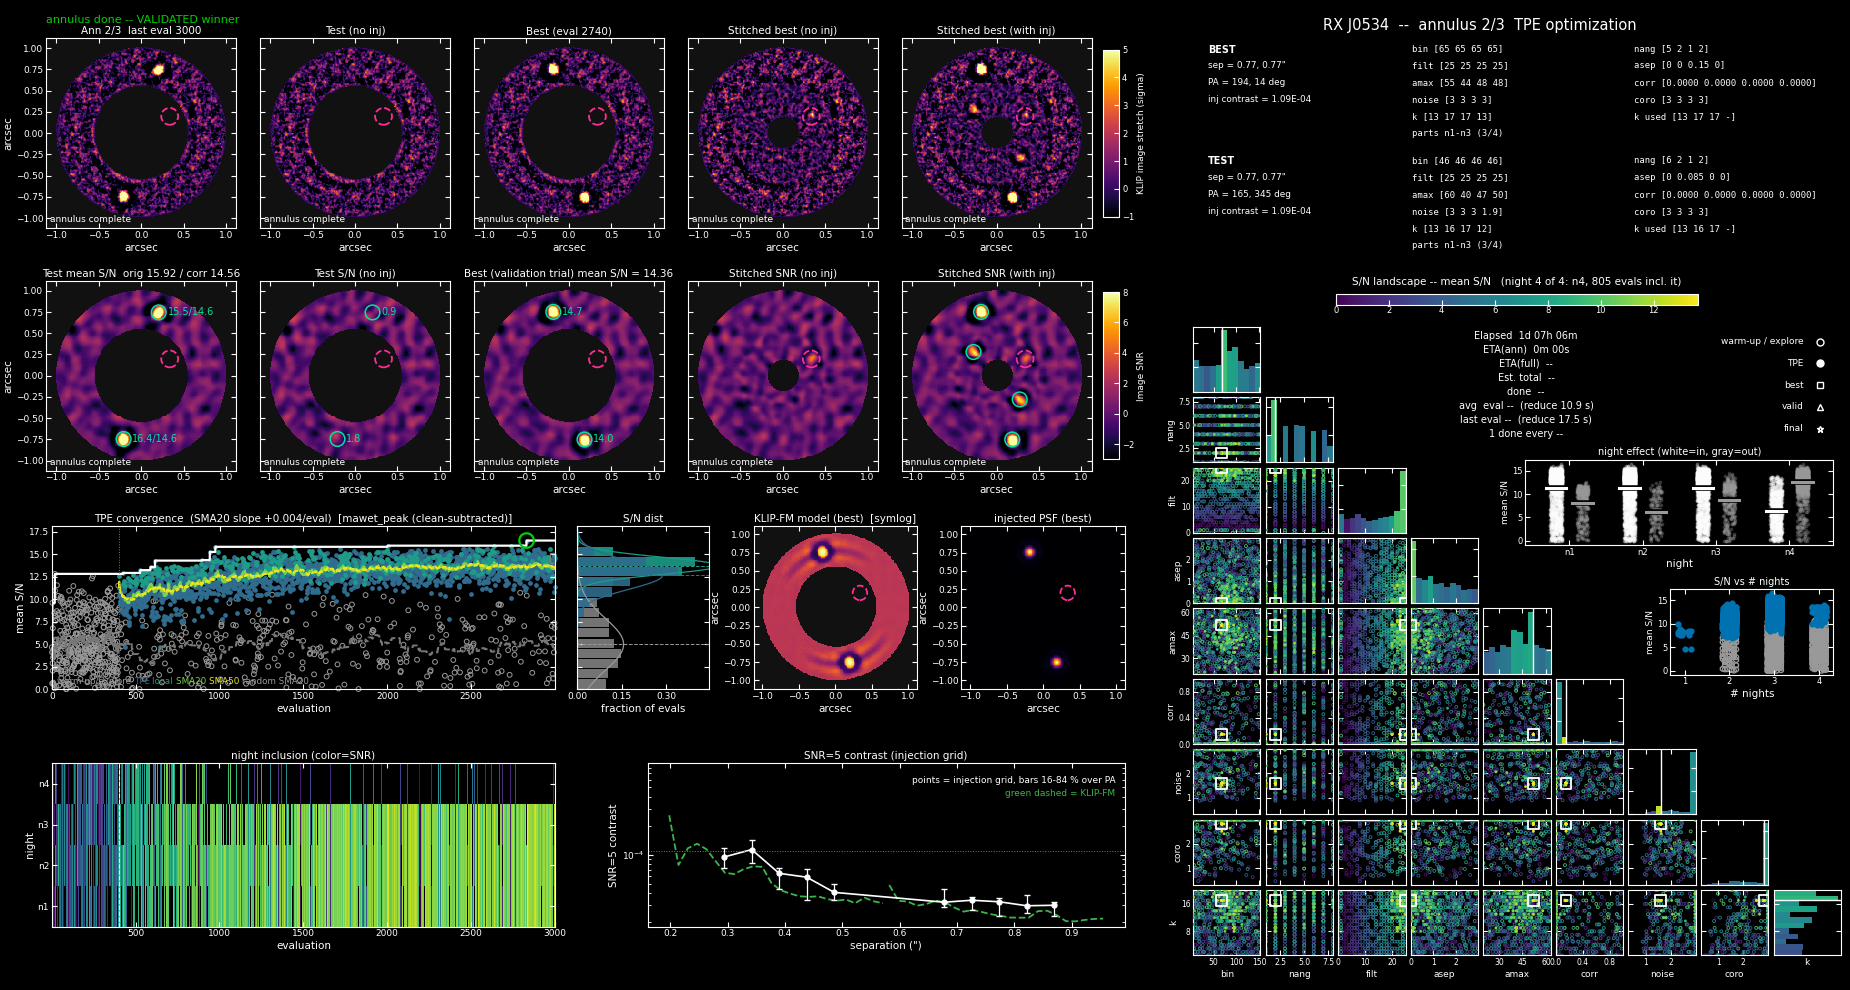
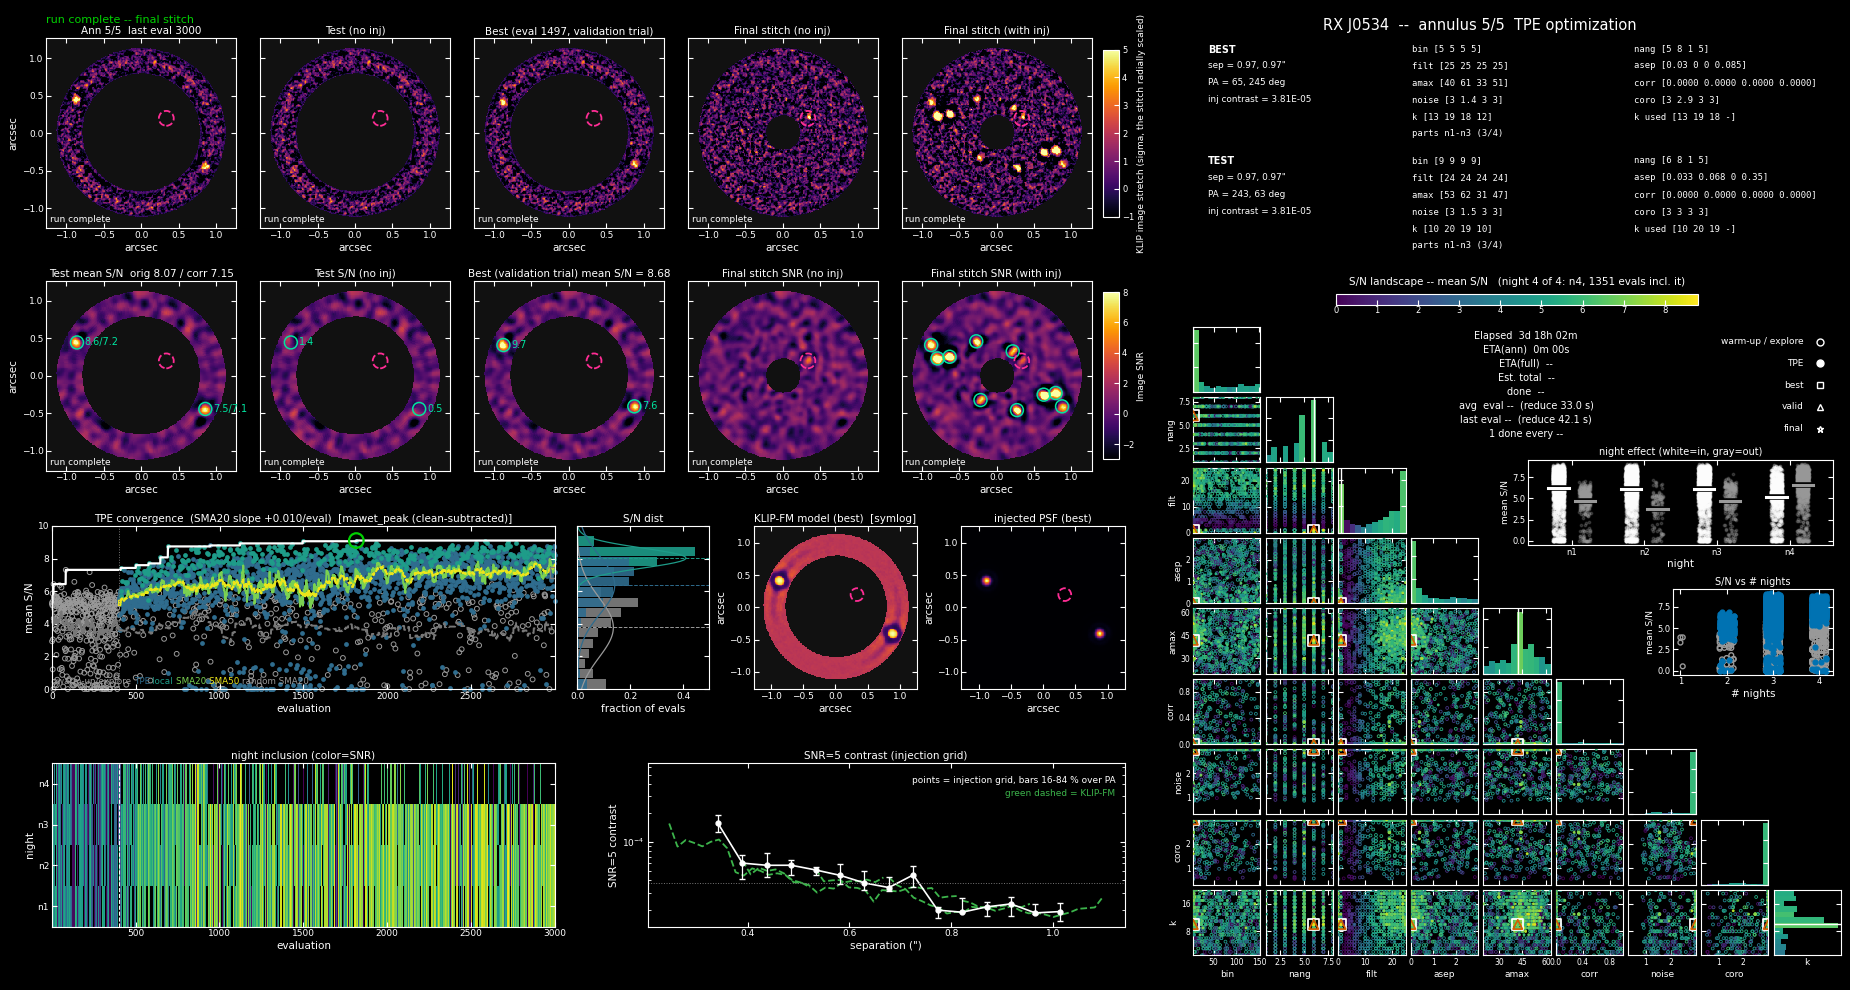
The README's panel from five annuli of 3 FWHM
- docs/img/step_display.png is the last panel of scripts/readme_panel.py
  --ann-fwhm 1.5 --extra-annuli 2 --seam-annuli (run on 76c1c64, 2026-11-23 to 27):
  three touching annuli of 3 FWHM from 0.25" to 1.11" and one on each of their two
  boundaries, 3,000 evaluations each, with the final-image grid's winners in the
  stitch.  The stitched images show no ring at the tile edges.  On the stitch the
  companion reads S/N 7.55 (FAP 1.0E-07, a detection at the operating FAP; 9.02 in
  the three-annulus run) and the ten injected sources 7.4 to 17.2.  It replaces the
  second annulus' frame of acc8518.
- scripts/readme_panel.py --ann-fwhm N passes the half-width of the companion's
  annulus in FWHM to run_rxj0534.py, with a default run directory of its own
  (readme_<2N>fwhm); its docstring says which frame the README shows.  Tests in
  tests/test_readme_panel.py.
- scripts/run_rxj0534.py and scripts/run_rxj0534.sh read the data from
  /Volumes/RAID64TB/LMIRCam by default, where it now lives.

Claude-Session: https://claude.ai/code/session_01EiqFzbA4C8K8mimrrPdLAM

diff --git a/scripts/readme_panel.py b/scripts/readme_panel.py
@@ -8,6 +8,7 @@
     python3 scripts/readme_panel.py --no-show             # no window, panels still written
     python3 scripts/readme_panel.py --target hd95086      # the panel on public data (VLT/SPHERE)
     python3 scripts/readme_panel.py --extra-annuli 1 --seam-annuli   # two annuli and one on their boundary
+    python3 scripts/readme_panel.py --ann-fwhm 1.5 --extra-annuli 2 --seam-annuli   # the README's image, about four days
 
 RX J0534 is ``scripts/run_rxj0534.py``'s four-night search (``--partitions 4``), with the
 companion held out of the objective.  The first annulus is its separation +/- 2 FWHM
@@ -22,7 +23,11 @@ and a plateau as long again.  The outer annuli hold two and three times the inne
 so they take about that much longer.  The contrast grid steps half a FWHM (``--cg-step``): five
 separations per annulus, a FWHM in from its edges, so the curve has no points within a FWHM of
 the seams.  The panel's title is ``--title`` ("RX J0534"), not the run directory's name.  The
-data are read from ``LMIRCAM_ROOT`` (default /Volumes/RAID36TB/LMIRCam).
+data are read from ``LMIRCAM_ROOT`` (default /Volumes/RAID64TB/LMIRCam).
+
+``--ann-fwhm`` sets the half-width of the companion's annulus in FWHM (``run_rxj0534.py
+--ann-fwhm``, 2 by default), and the annuli outside it take its width: 1.5 gives annuli of 3 FWHM,
+0.25-0.53", 0.53-0.82" and 0.82-1.11" with ``--extra-annuli 2``.
 
 ``--seam-annuli`` adds an annulus on each boundary between the annuli (``run_rxj0534.py
 --seam-annuli``), from the center of the one inside to the center of the one outside, numbered by
@@ -45,13 +50,16 @@ source per reduction at 12 position angles per separation (``--cg-pa``), each it
 (``--cg-target``) with the IDL contrast generators' aperture photometry or the run's
 matched-filter S/N (``--cg-snr``).
 
-The run writes to ``--run-dir`` (``~/klip_tpe_runs/rxj0534/readme_3ann``, ``readme_seam`` with
-``--seam-annuli``, or ``~/klip_tpe_runs/hd95086``), outside any synced folder; the single-annulus
-run of 2026-10-30 is in ``~/klip_tpe_runs/rxj0534/readme``.  The image at the top of the README
-(``docs/img/step_display.png``) is the three-annulus run's panel at the end of its second annulus,
-finished with its validated winner: its stitched images and contrast curve cover the first two
-annuli, the companion's included, and its convergence and parameter panels are the second
-annulus'.  Running the command again resumes the run.
+The run writes to ``--run-dir`` (``~/klip_tpe_runs/rxj0534/readme_3ann``; ``readme_seam`` with
+``--seam-annuli``; ``readme_<2N>fwhm`` with ``--ann-fwhm N``, so ``readme_3fwhm`` for 1.5; or
+``~/klip_tpe_runs/hd95086``), outside any synced folder; the single-annulus run of 2026-10-30 is
+in ``~/klip_tpe_runs/rxj0534/readme``.  The image at the top of the README
+(``docs/img/step_display.png``) is the last panel of ``--ann-fwhm 1.5 --extra-annuli 2
+--seam-annuli`` (``readme_3fwhm``, 2026-11-23 to 27): the three annuli of 3 FWHM from 0.25" to
+1.11" and one on each of their two boundaries, 3,000 evaluations each, with the final-image
+grid's winners in the stitch.  Its stitched images and contrast curve cover all five annuli, the
+companion's included, and its convergence and parameter panels are the last annulus'.  Running
+the command again resumes the run.
 """
 from __future__ import annotations
 
@@ -87,13 +95,16 @@ def parse(argv=None) -> argparse.Namespace:
     a : argparse.Namespace
         The options.  Those not given take ``TARGETS``' values for the target (run directory,
         title, seed, warm-up, grid step, source count and extra annuli), and ``run_dir`` is
-        expanded.  With ``--seam-annuli`` the default run directory is
-        ``~/klip_tpe_runs/rxj0534/readme_seam``, so the touching annuli's run is not resumed.
+        expanded.  With ``--ann-fwhm N`` the default run directory is
+        ``~/klip_tpe_runs/rxj0534/readme_<2N>fwhm``, and otherwise with ``--seam-annuli``
+        ``~/klip_tpe_runs/rxj0534/readme_seam``, so no run of another layout is resumed.
+        ``ann_fwhm`` is None when not given (``run_rxj0534.py``'s default).
 
     Raises
     ------
     SystemExit
-        On a bad option, or ``--seam-annuli`` with ``--target hd95086``.
+        On a bad option, ``--seam-annuli`` or ``--ann-fwhm`` with ``--target hd95086``, or an
+        ``--ann-fwhm`` that is not positive.
     """
     p = argparse.ArgumentParser(description=__doc__.split("\n\n")[0],
                                 formatter_class=argparse.RawDescriptionHelpFormatter)
@@ -113,8 +124,13 @@ def parse(argv=None) -> argparse.Namespace:
                    help="RX J0534: one more annulus on each boundary between the annuli, so the stitched "
                         "images hold no KLIP zone edge (run_rxj0534.py --seam-annuli; needs --extra-annuli 1 "
                         "or more). Default run directory: ~/klip_tpe_runs/rxj0534/readme_seam")
+    p.add_argument("--ann-fwhm", type=float, default=None, metavar="N",
+                   help="RX J0534: half-width of the companion's annulus in FWHM, the annuli outside it as wide "
+                        "(run_rxj0534.py --ann-fwhm; default 2). Default run directory: "
+                        "~/klip_tpe_runs/rxj0534/readme_<2N>fwhm, readme_3fwhm for the README's 1.5")
     p.add_argument("--run-dir", default=None,
-                   help="run directory (default ~/klip_tpe_runs/rxj0534/readme_3ann or ~/klip_tpe_runs/hd95086)")
+                   help="run directory (default ~/klip_tpe_runs/rxj0534/readme_3ann, readme_seam or "
+                        "readme_<2N>fwhm, or ~/klip_tpe_runs/hd95086)")
     p.add_argument("--title", default=None, help="the panel's title (default \"RX J0534\" or \"HD 95086\")")
     p.add_argument("--cg-pa", type=int, default=12, help="contrast grid: position angles per separation (default 12)")
     p.add_argument("--cg-step", type=float, default=None,
@@ -134,6 +150,13 @@ def parse(argv=None) -> argparse.Namespace:
     a = p.parse_args(argv)
     if a.seam_annuli and a.target != "rxj0534":
         p.error("--seam-annuli is for RX J0534's annuli")
+    if a.ann_fwhm is not None:
+        if a.target != "rxj0534":
+            p.error("--ann-fwhm is for RX J0534's annuli")
+        if not a.ann_fwhm > 0:
+            p.error(f"--ann-fwhm must be positive, not {a.ann_fwhm:g}")
+        if a.run_dir is None:
+            a.run_dir = f"~/klip_tpe_runs/rxj0534/readme_{2 * a.ann_fwhm:g}fwhm"
     if a.seam_annuli and a.run_dir is None:
         a.run_dir = "~/klip_tpe_runs/rxj0534/readme_seam"
     for k, v in TARGETS[a.target].items():
@@ -156,11 +179,13 @@ def rxj0534_argv(a: argparse.Namespace) -> list:
     argv : list of str
         The four-night search (``--partitions 4``) with the sources 180 deg apart on each annulus'
         mid-radius (``--even-pa``) and the injection-grid contrast curve, with the run directory,
-        title, budget, extra and seam annuli, warm-up, seed and window as given.
+        title, budget, annulus width, extra and seam annuli, warm-up, seed and window as given.
     """
     argv = ["--partitions", "4", "--n-iter", str(a.n_iter), "--out", a.run_dir, "--title", a.title,
             "--n-sources", str(a.n_sources), "--even-pa", "--contrast-grid", "grid", "--cg-pa", str(a.cg_pa), "--cg-step", f"{a.cg_step:g}",
             "--cg-target", f"{a.cg_target:g}", "--cg-snr", a.cg_snr, "--workers", str(a.workers)]
+    if getattr(a, "ann_fwhm", None) is not None:
+        argv += ["--ann-fwhm", f"{a.ann_fwhm:g}"]
     if a.extra_annuli:
         argv += ["--extra-annuli", str(a.extra_annuli)]
     if a.seam_annuli:

diff --git a/tests/test_readme_panel.py b/tests/test_readme_panel.py
@@ -87,6 +87,35 @@ def test_seam_annuli_reach_run_rxj0534_with_a_directory_of_their_own():
         readme_panel.parse(["--target", "hd95086", "--seam-annuli"])
 
 
+def test_ann_fwhm_reaches_run_rxj0534_with_a_directory_of_its_own():
+    """--ann-fwhm goes through to run_rxj0534.py, off unless asked, and names its own default
+    directory (readme_3fwhm for the README's 1.5), which wins over --seam-annuli's, so no run of
+    another layout is resumed.  It is RX J0534's alone, and positive."""
+    a = readme_panel.parse(["--ann-fwhm", "1.5", "--extra-annuli", "2", "--seam-annuli"])
+    argv = readme_panel.rxj0534_argv(a)
+    assert _opt(argv, "--ann-fwhm") == "1.5" and "--seam-annuli" in argv and _opt(argv, "--extra-annuli") == "2"
+    assert a.run_dir == os.path.expanduser("~/klip_tpe_runs/rxj0534/readme_3fwhm")
+    assert "--ann-fwhm" not in readme_panel.rxj0534_argv(readme_panel.parse([]))
+    assert readme_panel.parse(["--ann-fwhm", "2.5"]).run_dir == os.path.expanduser("~/klip_tpe_runs/rxj0534/readme_5fwhm")
+    assert readme_panel.parse(["--ann-fwhm", "1.5", "--run-dir", "/tmp/fwhm_run"]).run_dir == "/tmp/fwhm_run"
+    for bad in (["--target", "hd95086", "--ann-fwhm", "1.5"], ["--ann-fwhm", "0"]):
+        with pytest.raises(SystemExit):
+            readme_panel.parse(bad)
+
+
+def test_the_readme_images_five_annuli_reach_1p1_arcsec():
+    """The layout of the README's image, without loading data: --ann-fwhm 1.5 --extra-annuli 2 gives
+    three touching annuli of 3 FWHM from 0.25" to 1.11", --seam-annuli one more on each of their two
+    boundaries, and the frames are cropped to 261 px."""
+    rx = pytest.importorskip("run_rxj0534")
+    r_px = rx.PLANET[0] / rx.PXSCALE
+    e = rx.annulus_edges(r_px, rx.FWHM_PX, ann_fwhm=1.5, extra=2)
+    assert [round(v * rx.PXSCALE, 3) for v in e] == [0.246, 0.534, 0.822, 1.109]
+    assert [e[k + 1] - e[k] for k in range(3)] == pytest.approx([3 * rx.FWHM_PX] * 3)
+    assert len(rx.seam_annuli(e)) == 2
+    assert 2 * rx.crop_for(e) + 1 == 261
+
+
 def test_a_seam_annulus_keeps_every_tile_edge_a_fwhm_inside_the_zones():
     """The geometry --seam-annuli gives, without loading data: one annulus per boundary, from the
     center of the annulus inside to the center of the one outside.  The runner numbers the three by

diff --git a/scripts/run_rxj0534.py b/scripts/run_rxj0534.py
@@ -51,7 +51,7 @@ from klip_tpe import (CalibrationConfig, ContrastGridConfig, RunConfig, Runner, 
 from klip_tpe.instruments import generic
 
 # ----------------------------------------------------------------- instrument / target
-ROOT = os.environ.get("LMIRCAM_ROOT", "/Volumes/RAID36TB/LMIRCam")
+ROOT = os.environ.get("LMIRCAM_ROOT", "/Volumes/RAID64TB/LMIRCam")
 NIGHTS = ["RXJ0534", "RXJ0534_2", "RXJ0534_3", "RXJ0534_4"]      # UT 2026 Feb 26, 27, 28, Mar 2
 SIDES = ["left", "right"]
 CUBES = [1, 2]

diff --git a/CHANGELOG.md b/CHANGELOG.md
@@ -1,5 +1,22 @@
 # Changelog
 
+## Unreleased — 2026-11-27 (the README's panel from five annuli of 3 FWHM)
+
+- **The README's panel is RX J0534's run with annuli of 3 FWHM and an annulus on each boundary**
+  (Kevin Wagner, 2026-11-23 and 27).  `docs/img/step_display.png` is now the last panel of
+  `scripts/readme_panel.py --ann-fwhm 1.5 --extra-annuli 2 --seam-annuli`, run on `76c1c64` from
+  2026-11-23 to 27: three touching annuli of 3 FWHM from 0.25" to 1.11" and one on each of their
+  two boundaries, 3,000 evaluations each, with the final-image grid's winners in the stitch.  The
+  stitched images hold no KLIP zone edge and show no ring at the tile edges.  On the stitch the
+  companion reads S/N 7.55 (FAP 1.0E-07, a detection at the operating FAP; 9.02 in the
+  three-annulus run) and the ten injected sources 7.4 to 17.2.  It replaces the second annulus'
+  frame of 2026-11-21, whose touching annuli showed a dark ring just outside the 0.58" boundary.
+- **`scripts/readme_panel.py --ann-fwhm N`** passes the half-width of the companion's annulus in
+  FWHM to `run_rxj0534.py` (default 2), with a default run directory of its own,
+  `~/klip_tpe_runs/rxj0534/readme_<2N>fwhm`, so no run of another layout is resumed.
+- **`scripts/run_rxj0534.py` and `scripts/run_rxj0534.sh` read the data from
+  `/Volumes/RAID64TB/LMIRCam` by default**, where it now lives; `LMIRCAM_ROOT` still overrides it.
+
 ## Unreleased — 2026-11-25 (the processes of a run counted by their arguments, and one writer per run)
 
 After a note from the NOMIC archive session of 2026-11-25.
